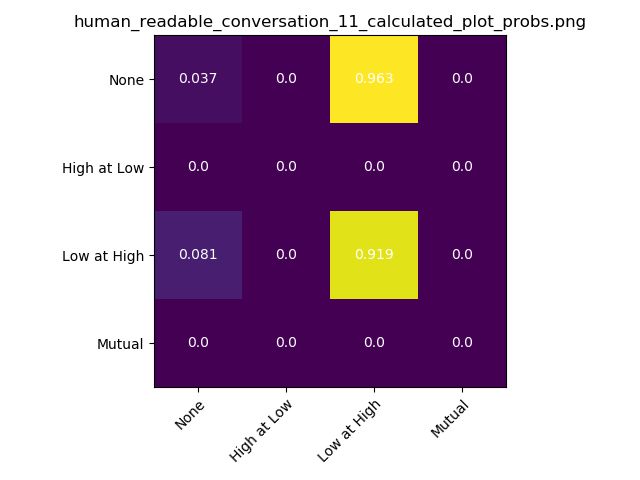
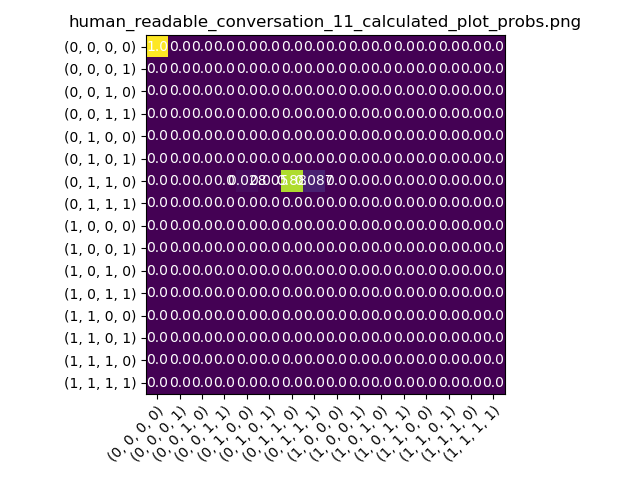
this IRL kinda fails

Changed region(s): [[0.0938, 0.0312, 0.9375, 0.9688]]

diff --git a/src/Mdp/at_high_model_components/at_high_policy_player.py b/src/Mdp/at_high_model_components/at_high_policy_player.py
@@ -1,5 +1,5 @@
 import random
-from typing import List
+from typing import List, Tuple
 
 from Mdp.at_high_model_components.at_high_model import AtHighMdpModel
 from data_const import (
@@ -9,111 +9,95 @@ from data_const import (
 from mdp_const import MdpConsts as mdp_consts
 import numpy as np
 
+from transition_counting.state_processor import StateProcessor
+
+
 class HighPolicyPlayer:
     """
     Plays out policy assuming that high person is an agent and low person is an part of environment.
     Uses transition_counting_results to calculates probabilities.
     """
 
-
     def __init__(self, file_metadata: dict, model: AtHighMdpModel):
         """
 
         :param file_metadata: metadata stating who is high and who is low
-        :param count_array: (2,2,2,2,2,2,2,2) probability
         """
         self.model = model
         self.count_array = model.Ca
         self.file_metadata = file_metadata
 
     def play_policy(
-        self,
-        policy: np.ndarray,
-        max_steps: int = 1000,
-        time_step: float = 0.04,
+            self,
+            policy: np.ndarray,
+            max_steps: int = 1000,
+            time_step: float = 0.04,
     ) -> List[dict]:
         """
         :param file_metadata: metadata
         :param time_step:
         :param max_steps: max iterations of playing
         :param model:
-        :param policy: mapping of policy[state]->action where each index of state number (0-3) and action is integer (0-1)
+        :param policy: A policy is a mapping where policy[state]->action where state index is given state
+        0 - (not look, not talk)
+        1 - (not look, talk)
+        2 - (look, not talk)
+        3 - (look, talk)
+        these indices corresponds to model.actions[index]
         :return: dictionary that looks the same as the ones in human_readible_files, where states are true to "in" or "out" but random within, namely when state is "leftEye" all it is means that it is "in", "leftEye" is randomed
         """
 
         result = []
         # assuming first state is None
-        current_state = 0
+        current_state_index = 0
         current_time = 0
         high_person = self.file_metadata[metadata_consts.AT_HIGH]
         low_person = self.file_metadata[metadata_consts.AT_LOW]
 
         for i in range(max_steps):
-
-            action_number = policy[int(current_state)]
-            new_state = self.random_next_state(current_state, action_number)
+            action_index = int(policy[int(current_state_index)])
+            # new_state is a tuple of length 4
+            new_state = self.__random_next_state(current_state_index, action_index)
             assert (high_person != low_person), "high and low person can not be the same, something went wrong, kek"
-
+            # TODO WORK HERE
             # gaze action are relevant only to "in" or "out" but not to the "leftEye" or "rightEye"
-            if new_state == mdp_consts.NONE:
 
-                frame = self.__create_frame(
-                    high_person,
-                    data_consts.OUT,
-                    low_person,
-                    data_consts.OUT,
-                    current_state,
-                    time_step,
-                )
-            elif new_state == mdp_consts.H_AT_L:
-                frame = self.__create_frame(
-                    high_person,
-                    data_consts.LEFT_EYE,
-                    low_person,
-                    data_consts.OUT,
-                    current_state,
-                    time_step,
-                )
-            elif new_state == mdp_consts.L_AT_H:
-                frame = self.__create_frame(
-                    high_person,
-                    data_consts.OUT,
-                    low_person,
-                    data_consts.LEFT_EYE,
-                    current_state,
-                    time_step,
-                )
-            elif new_state == mdp_consts.MUTUAL:
-                frame = self.__create_frame(
-                    high_person,
-                    data_consts.LEFT_EYE,
-                    low_person,
-                    data_consts.LEFT_EYE,
-                    current_state,
-                    time_step,
-                )
-            else:
-                raise ValueError("action is out of range, something went wrong")
+            high_gaze = StateProcessor.gaze_id_to_string(new_state[0])  # type:str
+            high_talk = StateProcessor.talk_id_to_string(new_state[1])  # type:str
+            low_gaze = StateProcessor.gaze_id_to_string(new_state[2])  # type:str
+            low_talk = StateProcessor.talk_id_to_string(new_state[3])  # type:str
+
+            frame = self.__create_frame(
+                high_person,
+                high_gaze,
+                high_talk,
+                low_person,
+                low_gaze,
+                low_talk,
+                current_state_index,
+                time_step,
+            )
 
             current_time += time_step
 
-            current_state = action_number
+            current_state_index = action_index
             result.append(frame)
 
         return result
 
     def __create_frame(
-            self, high_person, high_gaze, low_person, low_gaze, current_time, time_step
+            self, high_person, high_gaze, high_person_talk, low_person, low_gaze, low_person_talk, current_time,
+            time_step
     ) -> dict:
         # gaze action are relevant only to "in" or "out" but not to the "leftEye" or "rightEye"
         result = {
             high_person: {
                 data_consts.GAZE: high_gaze,
-                data_consts.TALKING: data_consts.QUIET,
+                data_consts.TALKING: high_person_talk,
             },
             low_person: {
                 data_consts.GAZE: low_gaze,
-                data_consts.TALKING: data_consts.QUIET,
+                data_consts.TALKING: low_person_talk,
             },
             data_consts.TIME_START: current_time,
             data_consts.TIME_END: current_time + time_step,
@@ -122,7 +106,9 @@ class HighPolicyPlayer:
         }
         return result
 
-    def random_next_state(self, model_current_state:int, agent_action_number:int)->int:
+    def __random_next_state(self, current_state_index: int, agent_action_number_index: int) -> Tuple[int, int, int, int]:
+
+        # TODO WORK HERE
 
         cm = self.count_array
 
@@ -133,13 +119,19 @@ class HighPolicyPlayer:
         # i am high, low is environment
 
         rnd = random.random()
+        current_state = self.model.states[current_state_index]
+        agent_action = self.model.actions[agent_action_number_index]
 
-        list_of_possible_actions = self.model.graph[model_current_state][agent_action_number]
+        list_of_possible_actions = self.model.graph[current_state][agent_action]
         last_proba = 0
         for proba, next_state in list_of_possible_actions:
-            if rnd < last_proba+proba:
+            if rnd < last_proba + proba:
                 return next_state
-            else: last_proba+= proba
+            else:
+                last_proba += proba
+        #if we got here it means that all probabilities were 0
+        if last_proba == 0:
+            #go to random place
+            return list_of_possible_actions[0][1]
 
         raise ValueError("no state was chosen, something went wrong")
-

diff --git a/src/inverse_reinforcement_learning/conversation_comperar.py b/src/inverse_reinforcement_learning/conversation_comperar.py
@@ -1,4 +1,4 @@
-from typing import List
+from typing import List, Tuple
 import numpy as np
 import os
 import settings
@@ -18,16 +18,17 @@ class ConversationComparer:
         calculated_conversation: List[dict],
         frame_step: int,
         file_metadata: dict,
-        show: bool
+        show: bool,
+        result_shape: Tuple
     ):
         base = os.path.basename(file_name)
         # get file name without extention
         name = os.path.splitext(base)[0]
         original_results = self.__count(
-            original_conversation, file_metadata, frame_step
+            original_conversation, file_metadata, frame_step,result_shape
         )
         calculated_results = self.__count(
-            calculated_conversation, file_metadata, frame_step
+            calculated_conversation, file_metadata, frame_step,result_shape
         )
 
         self.__save_plots(original_results, name, "original", show)
@@ -49,14 +50,14 @@ class ConversationComparer:
 
         plot_count_heatmap(np.round(probabilities_matrix, decimals=3), file_name_probs, show)
 
-    def __count(self, conversation, file_metadata: dict, frame_step: int) -> np.ndarray:
-        result = np.zeros((2, 2, 2, 2))
+    def __count(self, conversation, file_metadata: dict, frame_step: int, shape:Tuple) -> np.ndarray:
+        result = np.zeros(shape)
         starting_points = np.arange(0, frame_step)
         counter = TransitionCounter()
 
         for i in starting_points:
             file_result = counter.count_transitions(
-                conversation, frame_step, i, file_metadata
+                conversation, frame_step, i, file_metadata, shape
             )
             result += file_result
 

diff --git a/src/inverse_reinforcement_learning/compare_processor.py b/src/inverse_reinforcement_learning/compare_processor.py
@@ -1,4 +1,4 @@
-from typing import List
+from typing import List, Tuple
 
 from inverse_reinforcement_learning.conversation_comperar import ConversationComparer
 from inverse_reinforcement_learning.irl_processor_result import IrlProcessorResult
@@ -15,7 +15,9 @@ class CompareProcessor:
         original_conversation: List[dict],
         metadata: dict,
         frame_step: int,
+        result_shape: Tuple,
         show_plot=True,
+
     ) -> None:
         """
         Compares real conversation with the reasult created by IRL algorithm
@@ -39,4 +41,5 @@ class CompareProcessor:
             frame_step=frame_step,
             file_metadata=metadata,
             show=show_plot,
+            result_shape=result_shape
         )

diff --git a/src/transition_counting/state_processor.py b/src/transition_counting/state_processor.py
@@ -1,4 +1,5 @@
-from data_const import JointConstants as ConstJoint
+from mdp_const import MdpConsts
+from data_const import JointConstants
 from transition_counting.state_utils import StateUtils
 
 
@@ -58,3 +59,12 @@ class StateProcessor:
         ] += increment_value
 
         return matrix
+
+    @classmethod
+    def gaze_id_to_string(cls, id:int):
+        return JointConstants.LEFT_EYE if id == MdpConsts.LOOK else JointConstants.OUT
+
+    @classmethod
+    def talk_id_to_string(cls, id:int):
+        return JointConstants.TALKING if id == MdpConsts.TALK else JointConstants.QUIET
+

diff --git a/src/inverse_reinforcement_learning/main.py b/src/inverse_reinforcement_learning/main.py
@@ -35,7 +35,7 @@ if __name__ == "__main__":
 
                 compare_processor = CompareProcessor()
                 compare_processor.compare(
-                    irl_result, full_file_name, conv_json, this_file_metadata, 12, True
+                    irl_result, full_file_name, conv_json, this_file_metadata, 12, mdp_graph.Ca.shape, True
                 )
 
                 #TODO might do something with irl_result later ¯\_(ツ)_/¯ asd
